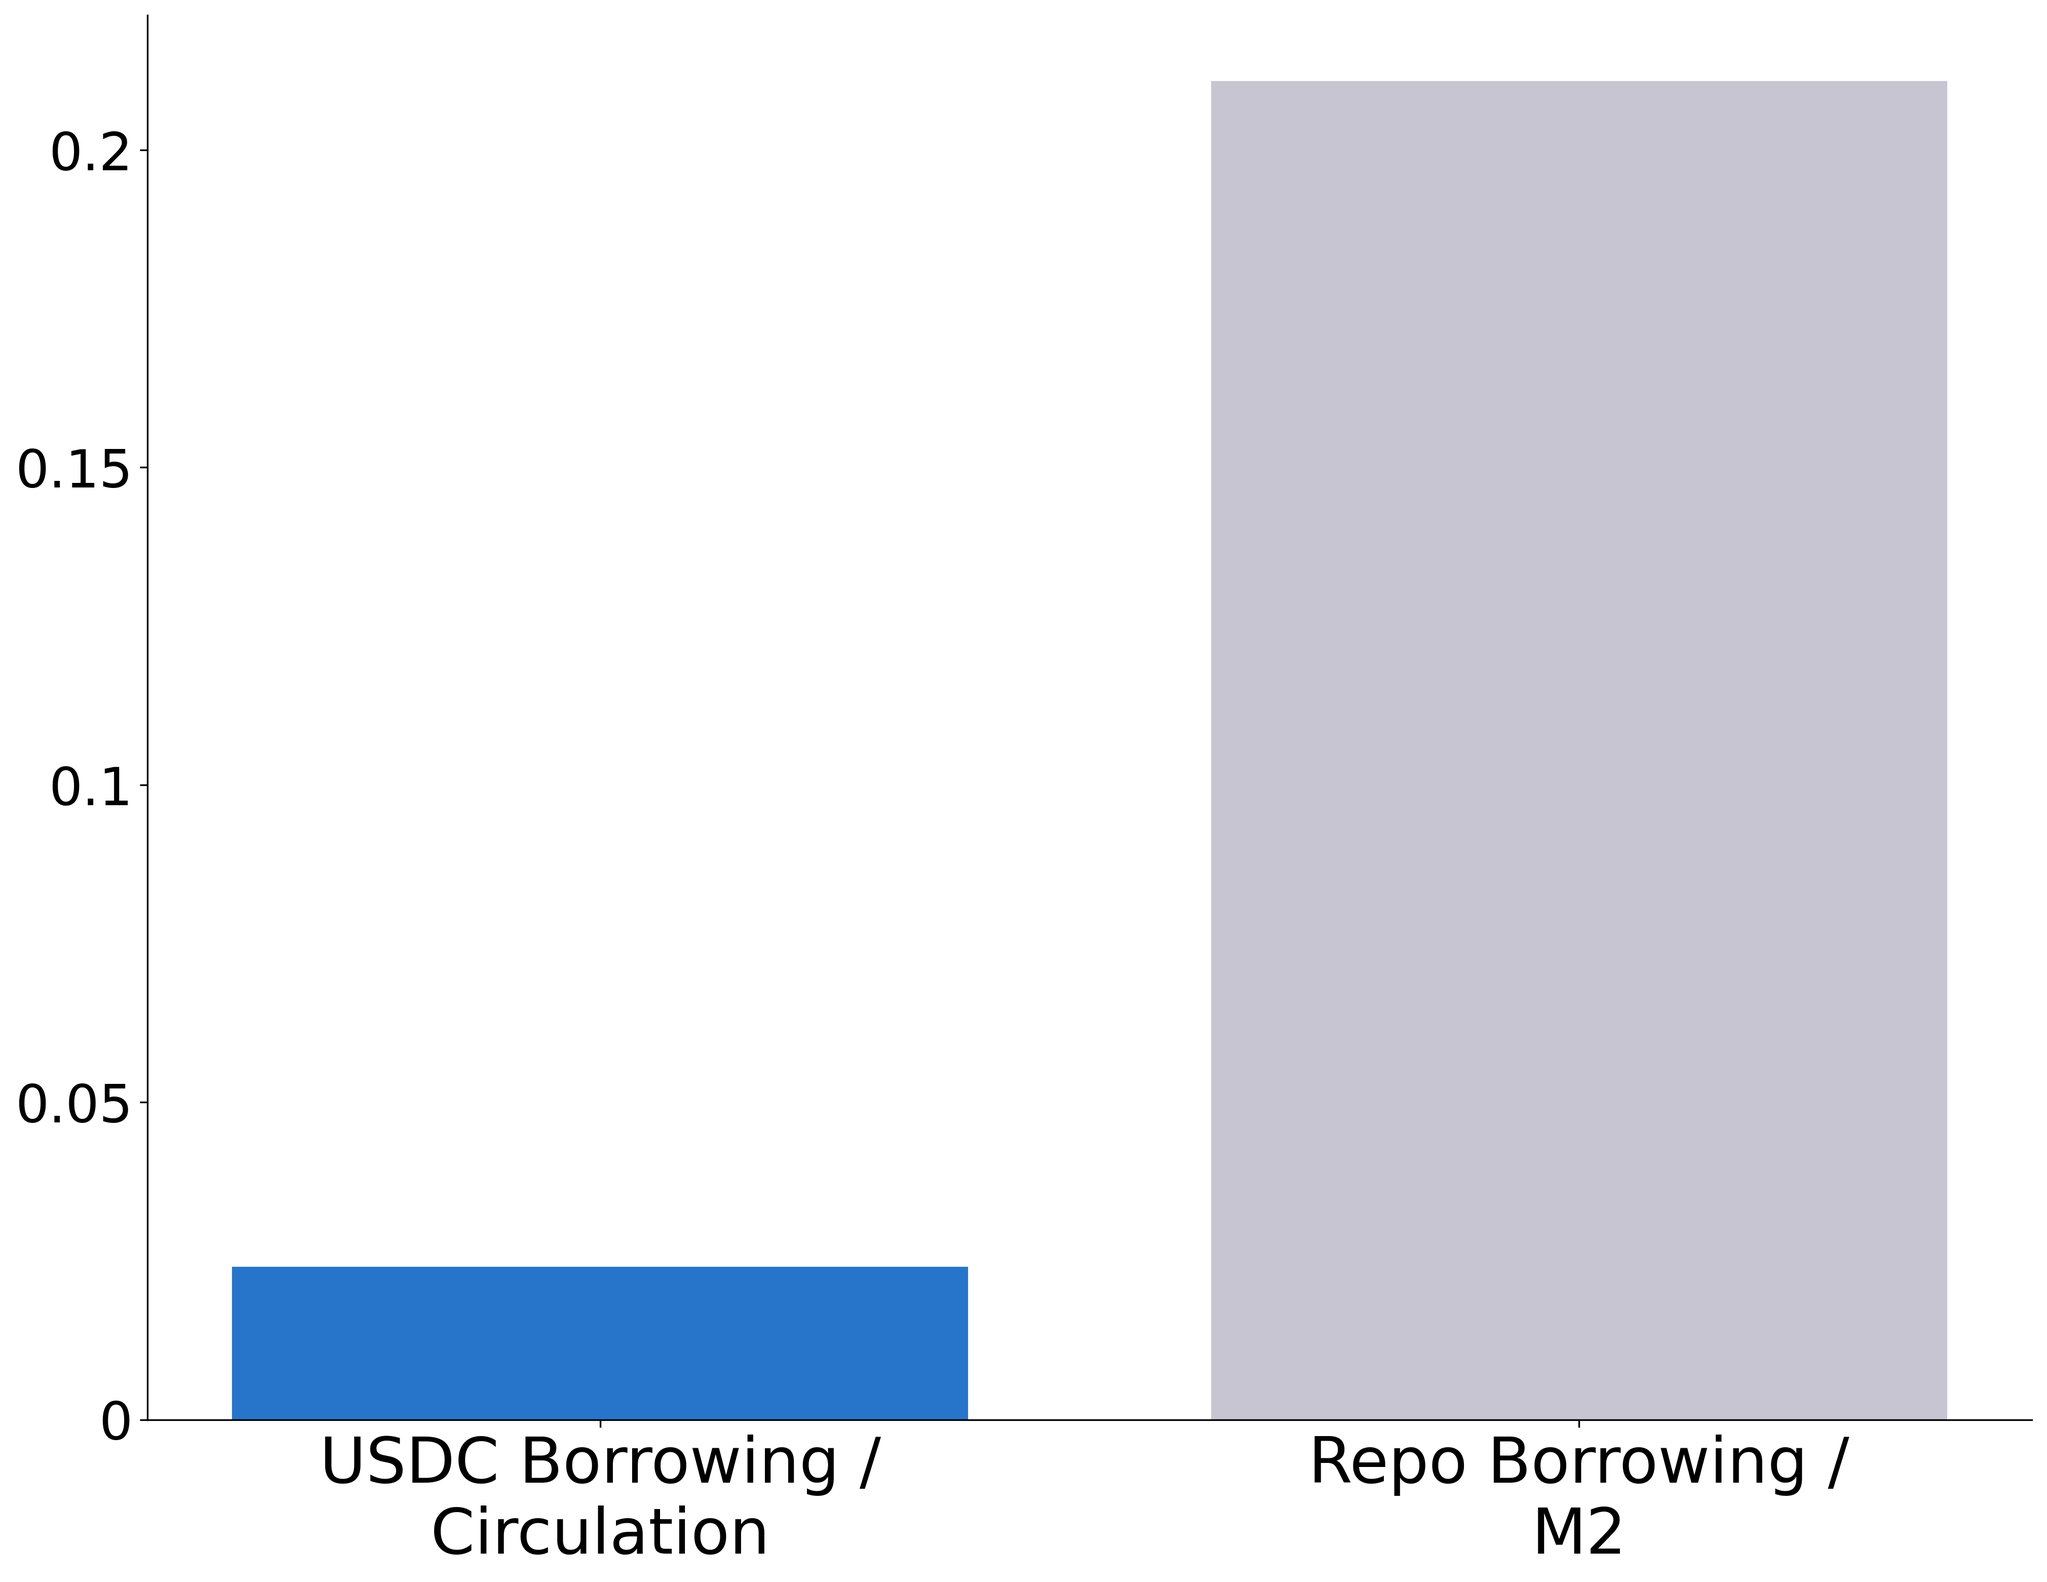
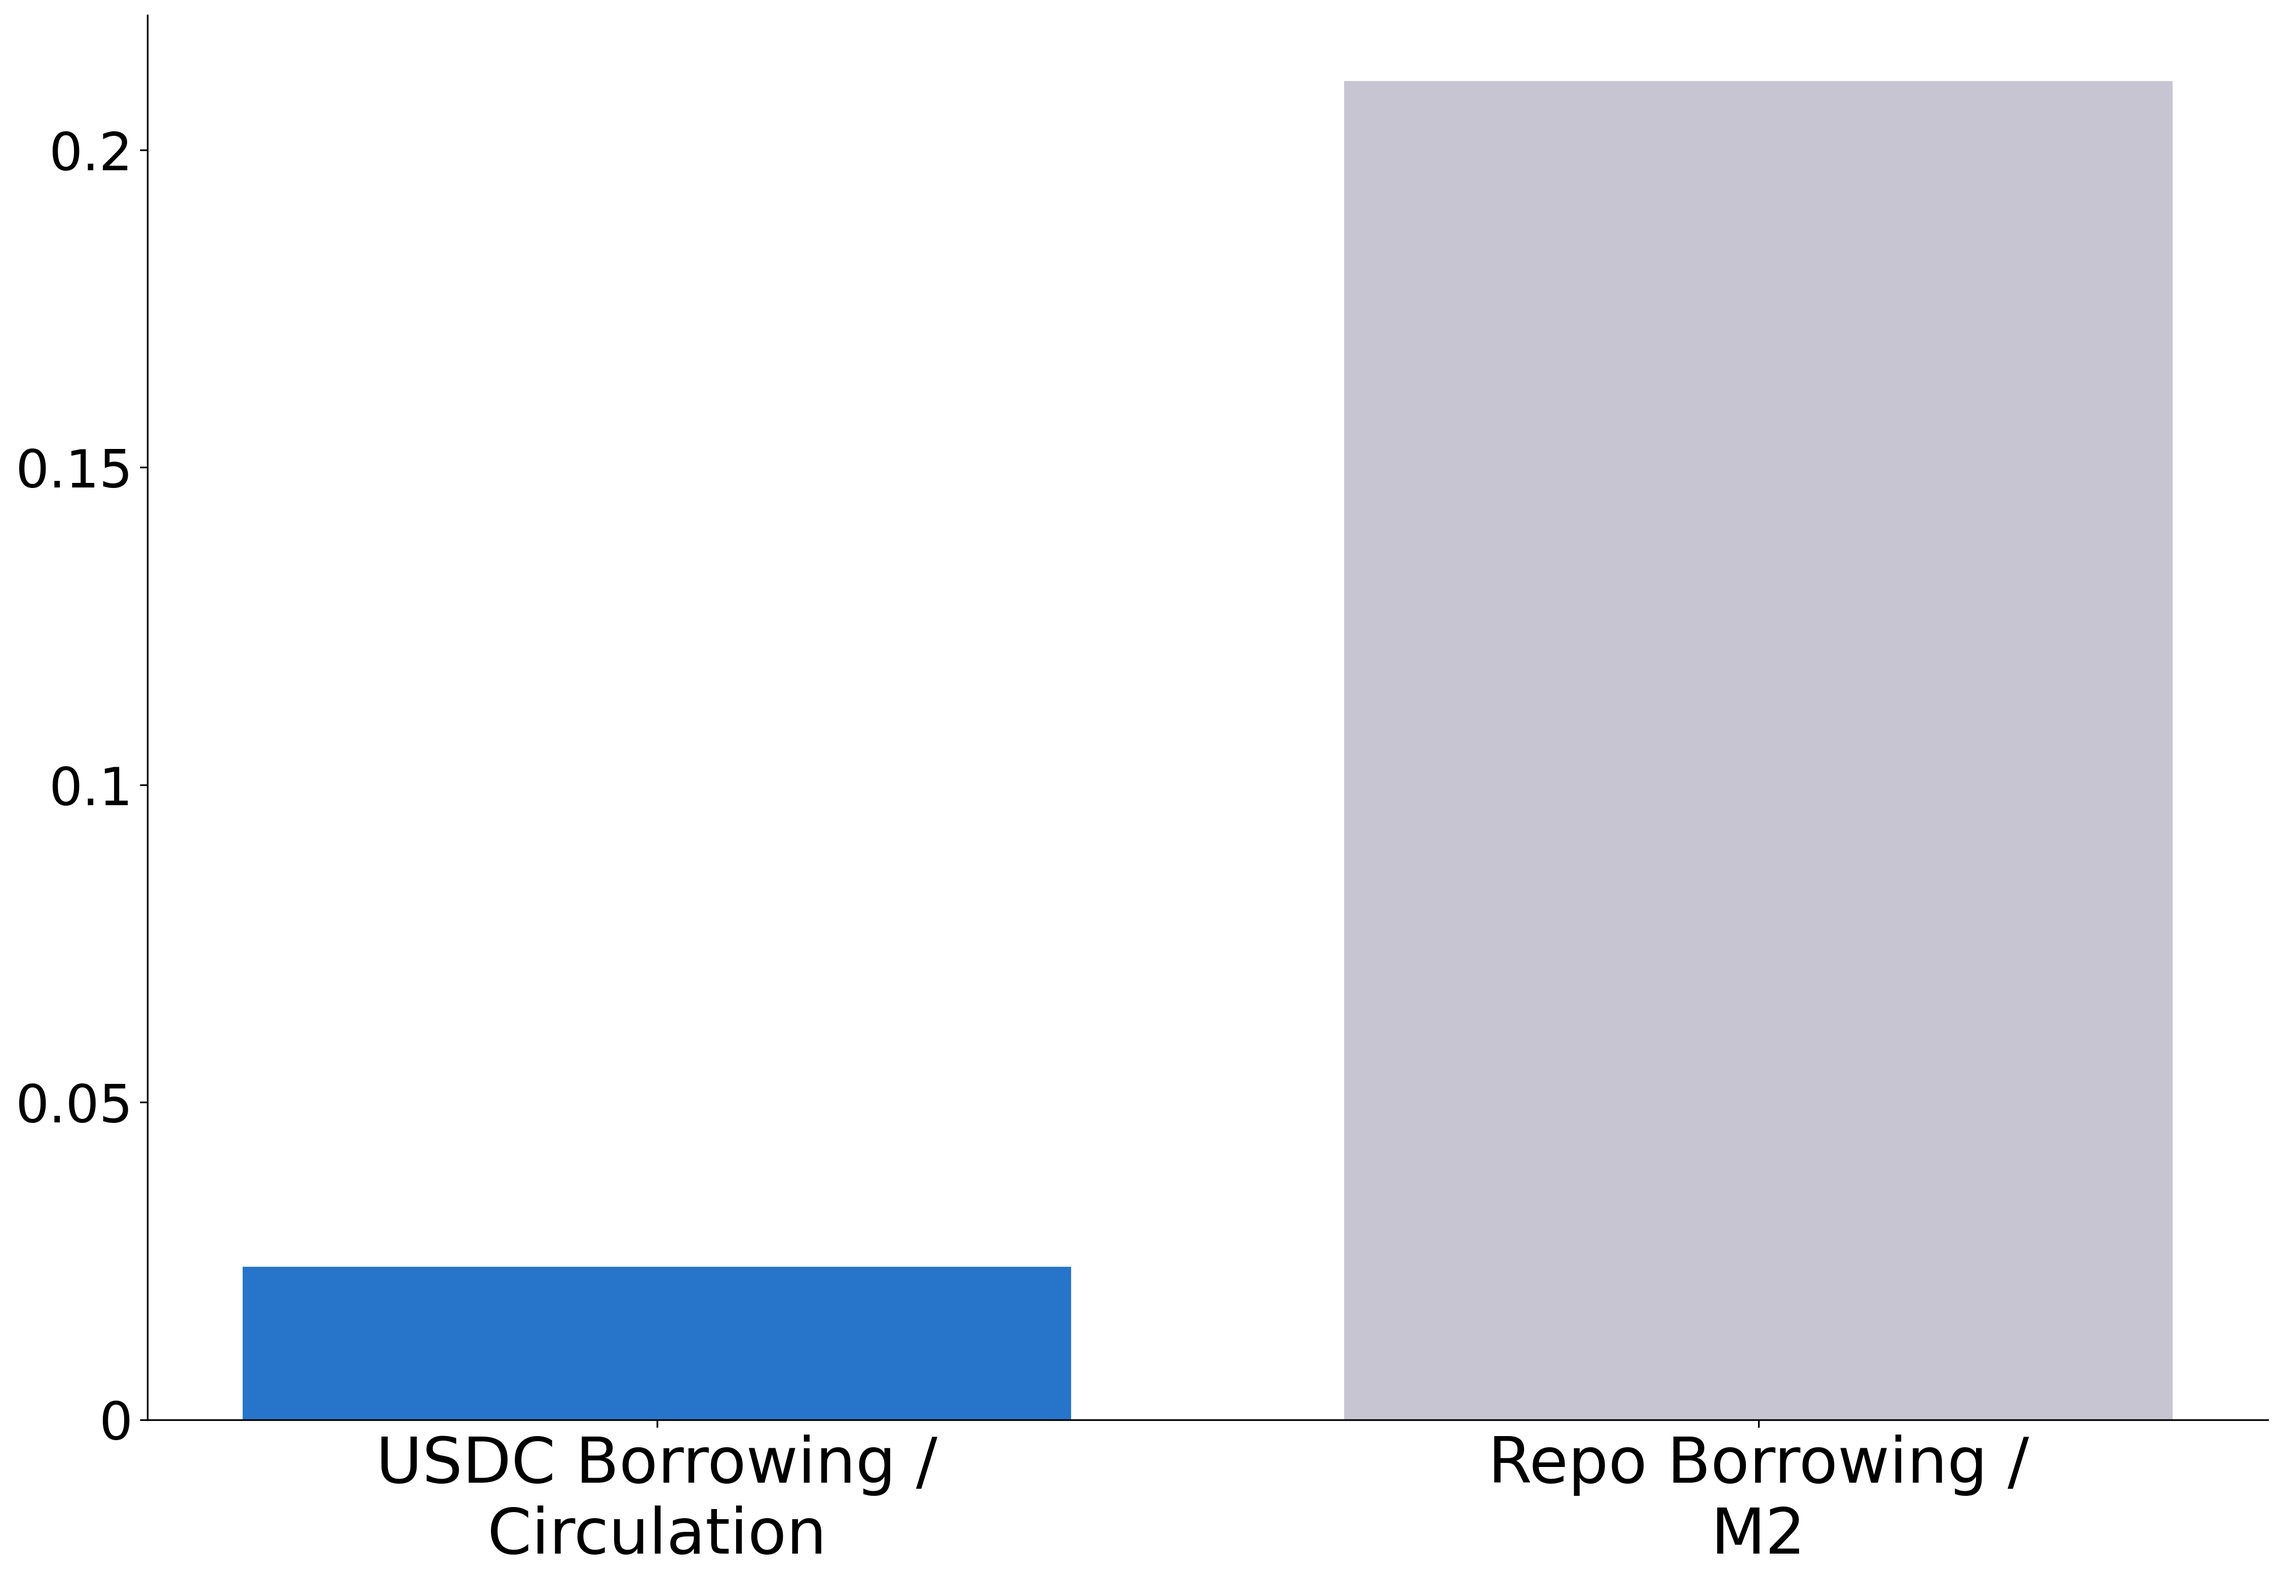
figure resize

diff --git a/code/figure3_debt_to_circulation.py b/code/figure3_debt_to_circulation.py
@@ -119,7 +119,7 @@ def plot_debt_to_circulation(start_date, end_date):
     print(m2_ratio, usdc_debt_to_mktcap_ratio)
 
     # Plot bar graph
-    figure(figsize=(16, 12), dpi=300)
+    figure(figsize=(18, 12), dpi=300)
 
     ax = plt.axes()
     ax.set_axisbelow(True)

diff --git a/code/figure1_volume_to_circulation.py b/code/figure1_volume_to_circulation.py
@@ -98,7 +98,7 @@ def plot_speculative_ratio(start_date, end_date):
         / (usd_df["WM2NS"] * 1e9)
     ).mean()
     # plot bar graph
-    figure(figsize=(16, 12), dpi=300)
+    figure(figsize=(18, 12), dpi=300)
 
     ax = plt.axes()
     ax.set_axisbelow(True)

diff --git a/code/figure5_ofac_compliant.py b/code/figure5_ofac_compliant.py
@@ -28,7 +28,7 @@ def plot_sanction_compliant():
     usd_ofac_tracable = (usd_m2 - usd_currcir) / usd_m2
 
     # Plot bar graph
-    figure(figsize=(16, 12), dpi=300)
+    figure(figsize=(18, 12), dpi=300)
 
     ax = plt.axes()
     ax.set_axisbelow(True)
